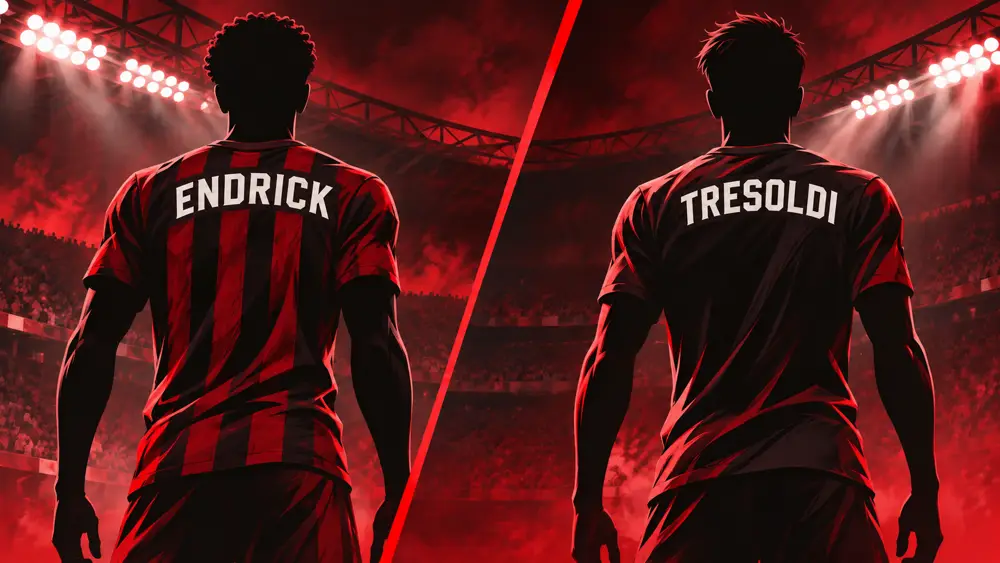
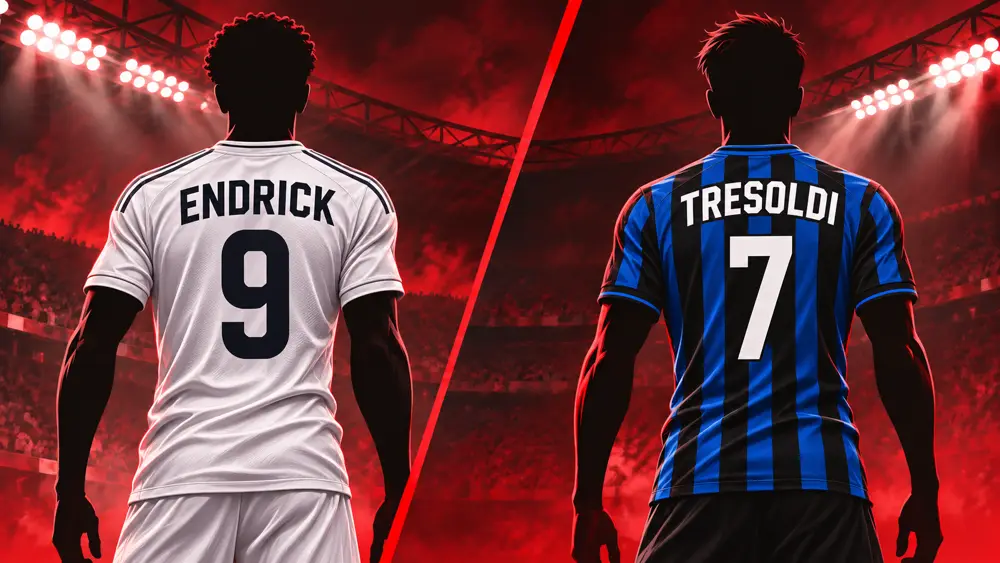
Use verified club shirts and player numbers on the transfer illustration

diff --git a/components/NewsCover.tsx b/components/NewsCover.tsx
@@ -29,7 +29,7 @@ export default function NewsCover({ image, title, category }: { image?: string; 
   if (/endrick/i.test(title) && /tresoldi/i.test(title) && failedImage !== strikerCover) {
     return (
       <figure className="relative overflow-hidden rounded-lg">
-        <img src={strikerCover} alt="Illustrazione con i nomi Endrick e Tresoldi sulle maglie" loading="lazy"
+        <img src={strikerCover} alt="Endrick con il 9 del Real Madrid e Tresoldi con il 7 del Club Brugge" loading="lazy"
           className="aspect-video w-full object-cover" onError={() => setFailedImage(strikerCover)} />
         <figcaption className="editorial-cover-credit rounded bg-black/75 px-2 py-1">Illustrazione AI</figcaption>
       </figure>

diff --git a/app/admin/news/page.tsx b/app/admin/news/page.tsx
@@ -232,6 +232,7 @@ export default function AdminNewsPage() {
           </label>
 
           <label>Carica immagine news dal PC</label>
+          <p>Per una copertina illustrata con un giocatore, verifica nome, club attuale e numero di maglia.</p>
           <input
             type="file"
             accept="image/*"
